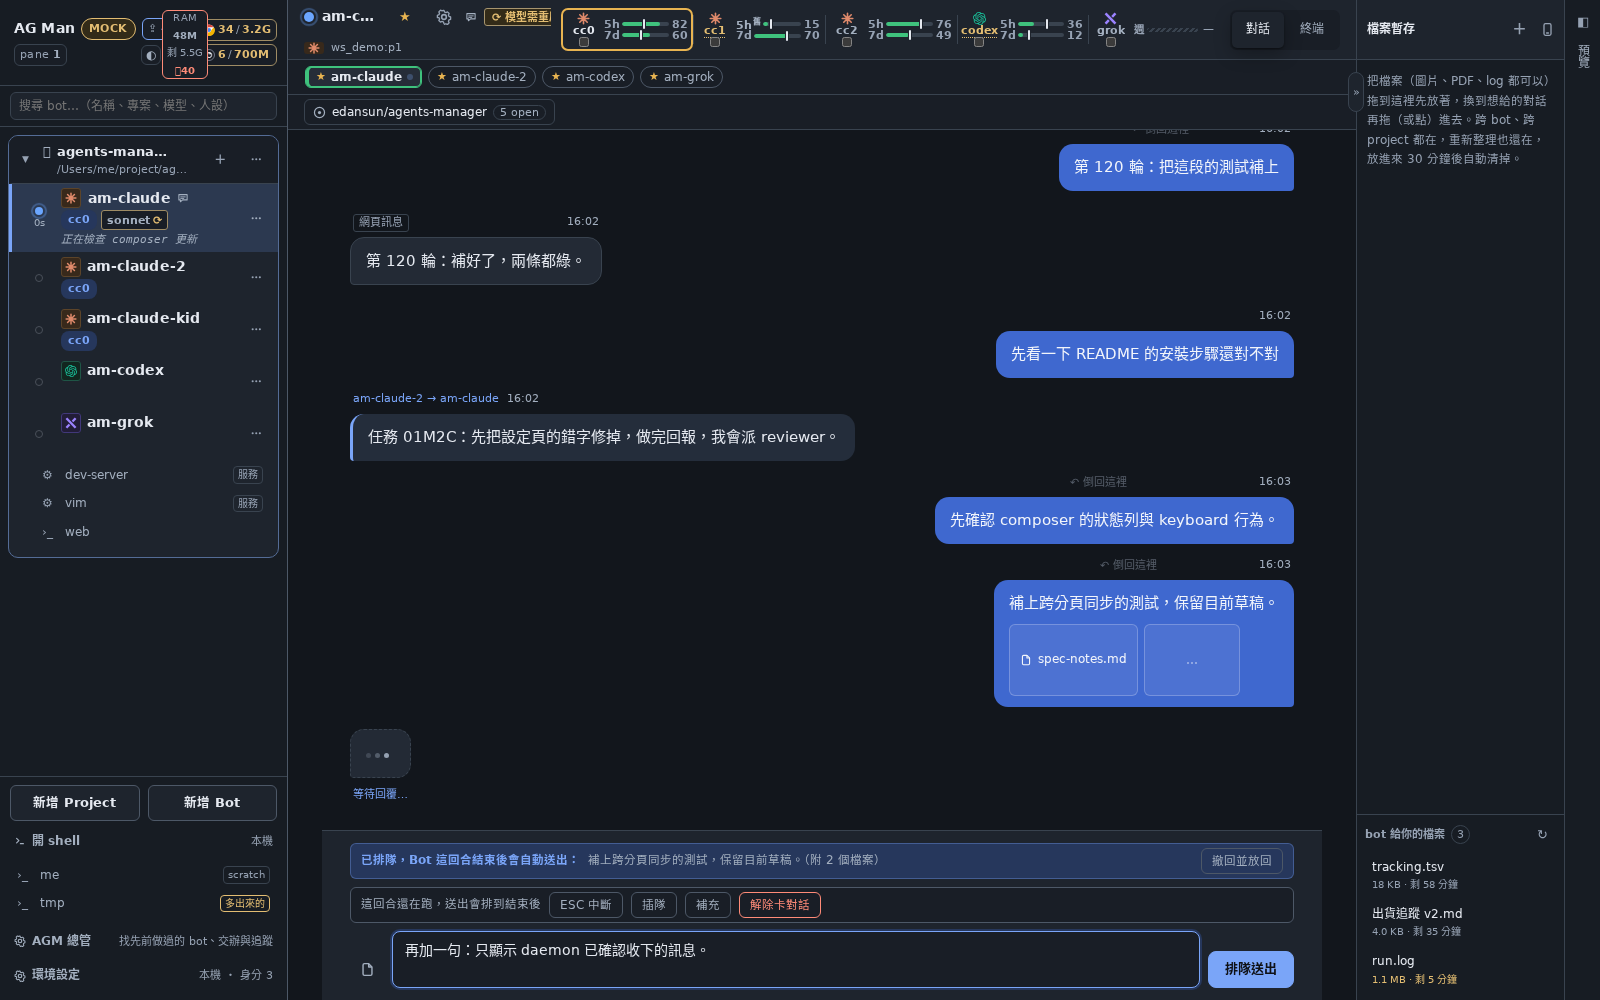
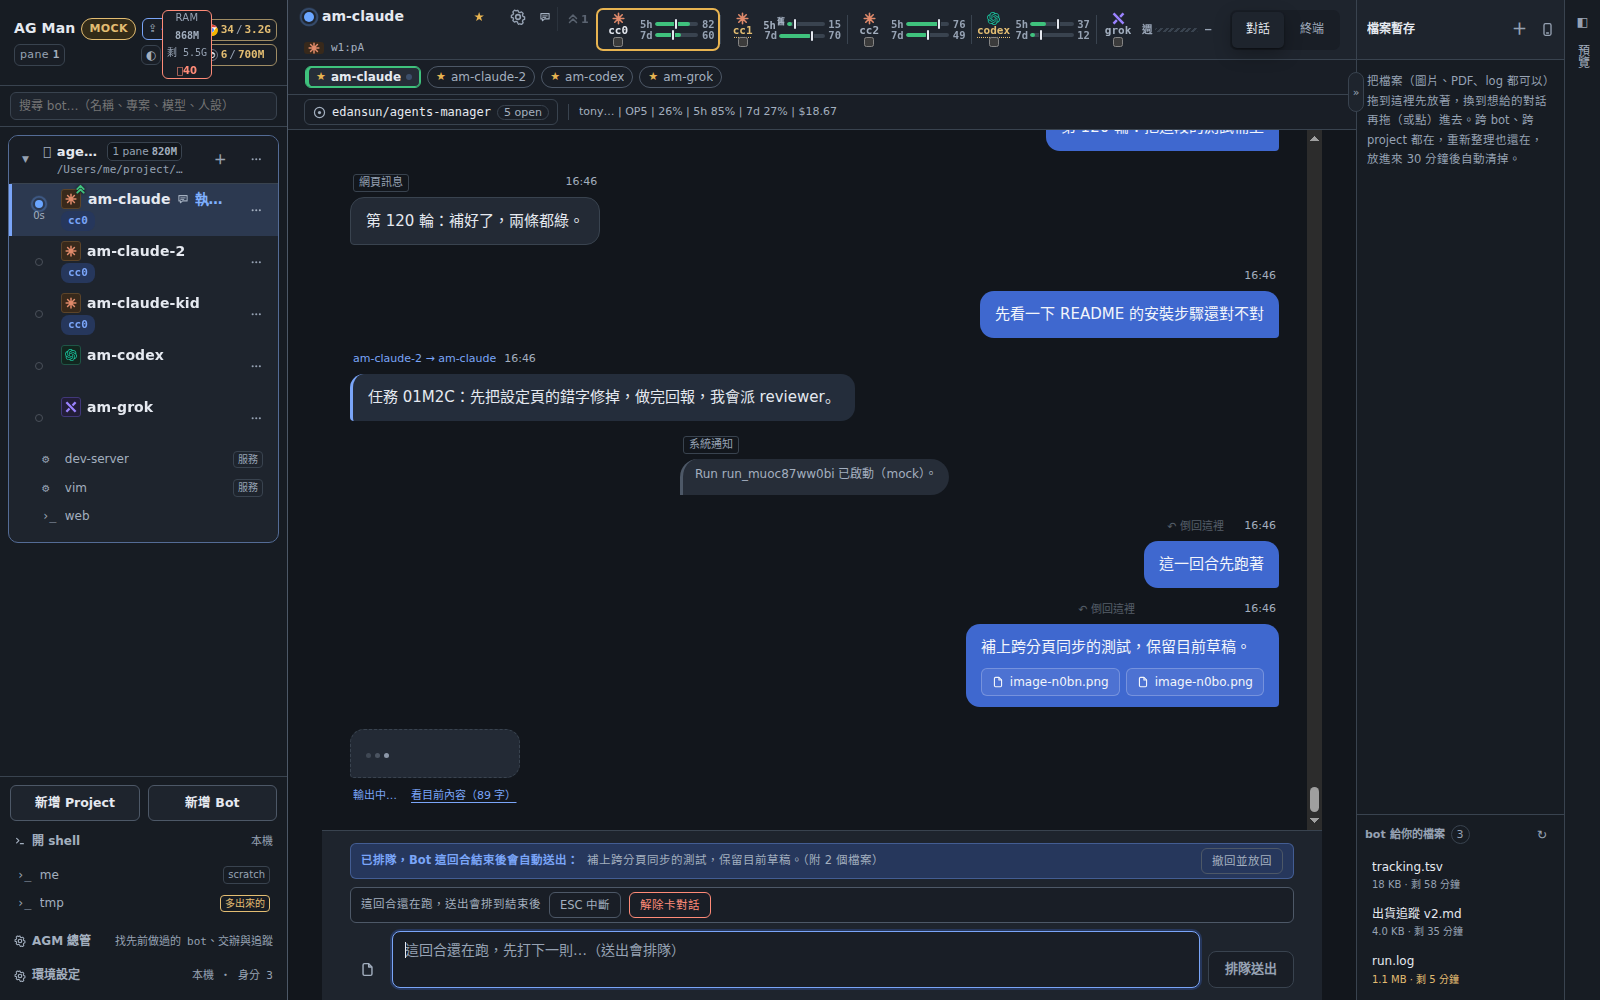
fix(web): let daemon own queued composer sends (Refs #733)

diff --git a/web/src/store/store.ts b/web/src/store/store.ts
@@ -54,7 +54,6 @@ import { sendNowFellThrough } from './sendNowOutcome'
 import { missionRequests } from './missionRequests'
 import { MISSION_USER_PAUSE } from '../lib/missionView'
 
-import type { QueuedSend } from './queuedSend'
 
 /** `patchBot` 的結果：要不要重啟，以及 daemon 有沒有把送進去的停用模型換掉（issue #539）。 */
 export interface PatchBotOutcome {
@@ -405,9 +404,6 @@ export interface StoreState {
   /** Render only while `composerState(...).inFlightTurnId === liveReply.turnId` so a stale entry never shows. */
   liveReply: Record<string, LiveReply>
 
-  /** @deprecated UI compatibility projection only; source is queued awaits_idle turns plus their user messages. */
-  queuedSends: Record<string, QueuedSend>
-
   /** SPEC §13 group view; non-null overrides `selectedBotId` (which is kept). */
   selectedProjectId: string | null
   groupMessages: Record<string, GroupMessage[]>
@@ -601,12 +597,6 @@ export interface StoreState {
   /** Positions are clamped to the current draft text. */
   setDraftCursor: (key: DraftKey, start: number, end?: number) => void
 
-  queueSend: (botId: string, text: string, attachments: string[]) => void
-  cancelQueuedSend: (botId: string) => void
-  /** 取消排隊：那則接回輸入框最前面（不蓋掉正在打的字）。 */
-  unqueueToDraft: (botId: string) => void
-  /** 送失敗時放回佇列或輸入框；三個送出入口共用，免得 409 把字吃掉。 */
-  restoreQueuedSend: (botId: string, pending: QueuedSend) => void
   /** issue #122：撤回 daemon 那一則「等 bot 起來」的訊息，文字接回輸入框最前面。 */
   cancelStartingSend: (botId: string) => Promise<void>
   /** issue #733：撤回 daemon-owned awaits_idle queued turn，再把原文接回草稿。 */
@@ -887,7 +877,6 @@ export const useStore = create<StoreState>((set, get) => {
   botUnread: initialUnread.bots,
   hiddenBotIds: [],
   liveReply: {},
-  queuedSends: {},
   composerDrafts: {},
 
   selectedProjectId: initialSelection.projectId,
@@ -1477,26 +1466,6 @@ export const useStore = create<StoreState>((set, get) => {
     }
   },
 
-  queueSend(botId, text, attachments) {
-    // UI compatibility adapter. The queue itself is created by the daemon's /prompt endpoint.
-    void get().sendPrompt(botId, text, attachments, false, false, undefined, true)
-  },
-
-  cancelQueuedSend(botId) {
-    void get().withdrawQueuedSend(botId)
-  },
-
-  unqueueToDraft(botId) {
-    void get().withdrawQueuedSend(botId)
-  },
-
-  restoreQueuedSend(botId, pending) {
-    const key = `bot:${botId}` as const
-    get().setDraft(key, prependDraft(pending.text, get().drafts[key] ?? ''))
-    get().setDraftCursor(key, pending.text.length)
-    if (pending.attachments.length > 0) get().notify('error', `訊息已退回輸入框，但 ${pending.attachments.length} 個附件要重新加`)
-  },
-
   async cancelStartingSend(botId) {
     const pending = startingSend(get().turns[botId], get().messages[botId])
     if (!pending) return
@@ -1539,8 +1508,6 @@ export const useStore = create<StoreState>((set, get) => {
       const text = withdrawn.text || pending.text
       get().setDraft(key, prependDraft(text, get().drafts[key] ?? ''))
       get().setDraftCursor(key, text.length)
-      const attachmentCount = withdrawn.attachments.length || pending.attachments.length
-      if (attachmentCount > 0) get().notify('error', `訊息已放回輸入框，但 ${attachmentCount} 個附件要重新加`)
       await get().loadMessages(botId)
     })
   },
@@ -2572,54 +2539,34 @@ export const useStore = create<StoreState>((set, get) => {
 }
 })
 
-/**
- * Compatibility projection for the still-shared composer. It is rebuilt from daemon turns and messages,
- * never written by Enter or used to decide when a message is sent.
- */
-function queuedSendProjection(state: StoreState): Record<string, QueuedSend> {
-  const projection: Record<string, QueuedSend> = {}
-  for (const botId of Object.keys(state.turns)) {
-    const pending = queuedSendFor(state, botId)
-    if (pending) projection[botId] = pending
-  }
-  return projection
+interface LegacyQueuedSend {
+  text: string
+  attachments: string[]
+  /** D's former compatibility projection tagged daemon rows with their turn id. */
+  turnId?: string
 }
 
-function sameQueuedProjection(a: Record<string, QueuedSend>, b: Record<string, QueuedSend>): boolean {
-  const keysA = Object.keys(a)
-  const keysB = Object.keys(b)
-  return keysA.length === keysB.length && keysA.every((key) => {
-    const left = a[key]
-    const right = b[key]
-    return Boolean(right) && left.turnId === right.turnId && left.text === right.text && left.attachments.join('\0') === right.attachments.join('\0')
-  })
-}
-
-useStore.subscribe((state, previous) => {
-  if (state.turns === previous.turns && state.messages === previous.messages) return
-  const queuedSends = queuedSendProjection(state)
-  if (!sameQueuedProjection(state.queuedSends, queuedSends)) useStore.setState({ queuedSends })
-})
-
-/** One-time bridge for a live/HMR store left over from the old bundle's non-persistent memory queue. */
+/** One-time bridge for a live/HMR store left over from a pre-#733 memory queue. */
 async function migrateLegacyQueuedSends(get: GetFn): Promise<void> {
   if (legacyQueueMigrationAttempted) return
   legacyQueueMigrationAttempted = true
-  const state = get()
-  const pending = Object.entries(state.queuedSends).filter(([botId, row]) => row && !queuedSendFor(state, botId))
-  if (pending.length === 0) return
-  useStore.setState({ queuedSends: {} })
+  const state = get() as StoreState & { queuedSends?: Record<string, LegacyQueuedSend> }
+  const legacyRows = state.queuedSends
+  if (!legacyRows) return
+  const pending = Object.entries(legacyRows).filter(([botId, row]) => row && !row.turnId && !queuedSendFor(state, botId))
+  const cleanState = { ...state } as StoreState & { queuedSends?: Record<string, LegacyQueuedSend> }
+  delete cleanState.queuedSends
+  useStore.setState(cleanState, true)
   for (const [botId, row] of pending) {
-    const legacy = row as QueuedSend
-    if (!legacy.text && legacy.attachments.length === 0) continue
-    const accepted = await get().sendPrompt(botId, legacy.text, legacy.attachments, false, false, undefined, true)
+    if (!row.text && row.attachments.length === 0) continue
+    const accepted = await get().sendPrompt(botId, row.text, row.attachments, false, false, undefined, true)
     if (!accepted) {
       const key = `bot:${botId}` as const
       const current = get().drafts[key] ?? ''
-      const restored = draftWithText(legacy.text, current)
+      const restored = draftWithText(row.text, current)
       if (restored !== current) get().setDraft(key, restored)
-      if (legacy.attachments.length > 0) {
-        get().notify('error', `舊分頁的訊息已退回輸入框，但 ${legacy.attachments.length} 個附件要重新加`)
+      if (row.attachments.length > 0) {
+        get().notify('error', `舊分頁的訊息已退回輸入框，但 ${row.attachments.length} 個附件要重新加`)
       }
     }
   }

diff --git a/web/src/components/ChatPanel.tsx b/web/src/components/ChatPanel.tsx
@@ -16,7 +16,7 @@ import { typeAlongside } from '../store/alongside'
 import { SentViaTag } from './SentViaTag'
 import { startingSend, startingSendLabel } from '../store/startingSend'
 import { composerPlaceholder, sendButtonLabel, sendButtonTitle } from '../lib/composerLabels'
-import { queuedIdleSend } from '../lib/queuedIdleSend'
+import { queuedSendFor } from '../store/queuedSend'
 import { isImeEnter } from '../lib/ime'
 import { herdrIdentity } from '../lib/herdrIdentity'
 import { PaneCopy } from './PaneCopy'
@@ -668,17 +668,7 @@ function Composer({
 }) {
   // Fresh object per call: raw from the selector would spin `useSyncExternalStore`.
   const state = useStore(useShallow((s) => composerState(s, botId)))
-  const sendPrompt = useStore((s) =>
-    s.sendPrompt as (
-      botId: string,
-      text: string,
-      attachments?: string[],
-      sendNow?: boolean,
-      startIfStopped?: boolean,
-      draft?: undefined,
-      queueIfBusy?: boolean,
-    ) => Promise<boolean>,
-  )
+  const sendPrompt = useStore((s) => s.sendPrompt)
   const abandonTurn = useStore((s) => s.abandonTurn)
   const interruptBot = useStore((s) => s.interruptBot)
   const abortBot = useStore((s) => s.abortBot)
@@ -688,10 +678,9 @@ function Composer({
   const startBot = useStore((s) => s.startBot)
   const sendText = useStore((s) => s.sendText)
   const notify = useStore((s) => s.notify)
-  // TODO(D): switch this transitional projection to the daemon queued-send selector from the store.
   const queued = useStore(
     useShallow((s) => {
-      const queuedSend = queuedIdleSend(s.turns[botId], s.messages[botId])
+      const queuedSend = queuedSendFor(s, botId)
       return queuedSend
         ? { turnId: queuedSend.turnId, text: queuedSend.text, attachmentCount: queuedSend.attachments.length }
         : null
@@ -705,10 +694,7 @@ function Composer({
   // issue #122：交給 daemon、在等 bot 起來的那一則（重整之後也還在）。
   const starting = useStore(useShallow((s) => startingSend(s.turns[botId], s.messages[botId])))
   const cancelStartingSend = useStore((s) => s.cancelStartingSend)
-  // TODO(D): selector/action are part of D's store change and are optional until that branch lands.
-  const withdrawQueuedSend = useStore((s) =>
-    (s as typeof s & { withdrawQueuedSend?: (botId: string) => Promise<void> }).withdrawQueuedSend ?? null,
-  )
+  const withdrawQueuedSend = useStore((s) => s.withdrawQueuedSend)
   const withdrawing = useStore((s) => Boolean(s.busy[`withdraw:${botId}`]))
   const startingBot = useStore((s) => Boolean(s.busy[`start:${botId}`]))
   const hasRun = useStore((s) => Boolean(s.runs[botId]))
@@ -789,7 +775,7 @@ function Composer({
   }
 
   const withdrawQueuedIdleSend = async () => {
-    if (!queued || !withdrawQueuedSend) return
+    if (!queued) return
     await withdrawQueuedSend(botId)
     const withdrawn = useStore.getState().turns[botId]?.[queued.turnId]?.status === 'failed'
     if (withdrawn) files.restoreAttachments(queuedAttachments)
@@ -848,7 +834,7 @@ function Composer({
           <button
             type="button"
             className="mini-btn"
-            disabled={withdrawing || !withdrawQueuedSend}
+            disabled={withdrawing}
             title="撤回這則訊息並放回輸入框"
             onClick={() => void withdrawQueuedIdleSend()}
           >

diff --git a/web/src/api/queuedTurnMock.test.ts b/web/src/api/queuedTurnMock.test.ts
@@ -5,9 +5,13 @@ import { ApiError } from './types.ts'
 
 test('mock prompt persists one awaits_idle turn, rejects a second slot, and withdraws with text and attachment IDs', async () => {
   const mock = new MockTransport()
-  // Seed an active, non-idle run directly. This also covers the API condition where agent_status
-  // is busy even when there is no in_flight turn row yet.
-  const internals = mock as unknown as { bots: { id: string; name: string }[]; runs: unknown[] }
+  // A busy run can be visible before its in_flight turn row arrives.
+  const internals = mock as unknown as {
+    bots: { id: string; name: string }[]
+    runs: unknown[]
+    turns: unknown[]
+    messages: { role: string; content: string }[]
+  }
   const botId = internals.bots.find((bot) => bot.name === 'am-claude')!.id
   internals.runs.push({ id: 'r1', bot_id: botId, state: 'running', agent_status: 'working' })
 
@@ -29,4 +33,27 @@ test('mock prompt persists one awaits_idle turn, rejects a second slot, and with
   assert.equal(projected?.awaits_idle, 1)
 
   assert.deepEqual(await mock.request('POST', `/turns/${queued.turn_id}/withdraw`), { text: 'queued text', attachments: ['a1', 'a2'] })
+
+  // Once an in-flight row is visible, queueing must still leave it alone.
+  internals.turns.push({
+    id: 'active',
+    conversation_id: 'c1',
+    run_id: 'r1',
+    bot_id: botId,
+    origin: 'web',
+    status: 'in_flight',
+    delivery: 'ok',
+    client_request_id: 'active',
+    created_at: '2026-09-30T00:00:00Z',
+    completed_at: null,
+  })
+  const queuedWhileInFlight = await mock.request('POST', `/bots/${botId}/prompt`, {
+    text: 'queued behind in-flight',
+    client_request_id: 'queued-while-in-flight',
+    queue_if_busy: true,
+  }) as { delivery: string }
+  assert.equal(queuedWhileInFlight.delivery, 'queued')
+  const activeTurn = internals.turns.find((turn) => (turn as { id: string }).id === 'active') as { status: string }
+  assert.equal(activeTurn.status, 'in_flight', 'queue_if_busy must leave the active turn alone')
+  assert.equal(internals.messages.some((message) => message.content.includes('被插隊送出打斷')), false)
 })

diff --git a/web/src/store/queuedTurn.test.ts b/web/src/store/queuedTurn.test.ts
@@ -39,7 +39,6 @@ function seed() {
     messages: {},
     drafts: {},
     notices: [],
-    queuedSends: {},
   })
 }
 
@@ -128,13 +127,13 @@ test('withdrawing an awaits_idle turn restores the server-returned text before t
   assert.ok(requests.some((request) => request.method === 'POST' && request.path.endsWith('/turns/t1/withdraw')))
   assert.equal(useStore.getState().drafts['bot:b1'], 'authoritative text\ntyped while queued')
   assert.equal(useStore.getState().turns.b1.t1.status, 'failed')
-  assert.ok(useStore.getState().notices.some((notice) => notice.text.includes('2 個附件')))
+  assert.equal(useStore.getState().notices.some((notice) => notice.text.includes('附件要重新加')), false, 'composer restores the existing attachment cards')
 })
 
 test('first bootstrap migrates a leftover legacy in-memory row through /prompt once', async () => {
   seed()
   // Simulate a HMR-preserved state object from the pre-#733 bundle.
-  useStore.setState({ queuedSends: { b1: { text: 'legacy row', attachments: [] } as never } })
+  useStore.setState({ queuedSends: { b1: { text: 'legacy row', attachments: [] } } } as never)
   routeDaemon((req) => {
     if (req.path.endsWith('/session')) return json({ token: 't' })
     if (req.path.endsWith('/prompt')) return json({ turn_id: 'migrated', message_id: 'm1', delivery: 'queued' })
@@ -147,5 +146,6 @@ test('first bootstrap migrates a leftover legacy in-memory row through /prompt o
   assert.equal(prompts.length, 1)
   assert.equal((prompts[0].body as { queue_if_busy?: boolean }).queue_if_busy, true)
   assert.equal((prompts[0].body as { text?: string }).text, 'legacy row')
+  assert.equal((useStore.getState() as unknown as { queuedSends?: unknown }).queuedSends, undefined)
   useStore.setState({ projects: [], bots: [], runs: {}, turns: {}, messages: {}, socket: 'closed' })
 })

diff --git a/web/src/store/queuedSend.ts b/web/src/store/queuedSend.ts
@@ -28,36 +28,3 @@ export function queuedSendFor(
 export function prependDraft(text: string, current: string): string {
   return text ? (current ? `${text}\n${current}` : text) : current
 }
-
-/** Temporary composer adapter while the UI switches from local queueing to sendPrompt(queueIfBusy). */
-export interface ComposerIO {
-  setText: (text: string) => void
-  clearFiles: () => void
-}
-
-export function queueFromComposer(
-  io: ComposerIO & { queueSend: (botId: string, text: string, attachments: string[]) => void },
-  botId: string,
-  body: string,
-  attachments: string[],
-): void {
-  io.setText('')
-  io.clearFiles()
-  io.queueSend(botId, body, attachments)
-}
-
-/** Legacy composer helper; server-owned queues are no longer restored into a browser-side slot. */
-export function settleComposerSend(
-  io: ComposerIO & { restoreQueuedSend: (botId: string, pending: QueuedSend) => void },
-  botId: string,
-  wasQueued: QueuedSend | null,
-  ok: boolean,
-): void {
-  if (ok) {
-    if (wasQueued) return
-    io.setText('')
-    io.clearFiles()
-    return
-  }
-  if (wasQueued) io.restoreQueuedSend(botId, wasQueued)
-}

diff --git a/web/src/api/mock.ts b/web/src/api/mock.ts
@@ -2978,8 +2978,8 @@ export class MockTransport implements Transport {
         : {}
       throw new ApiError(409, { error: 'conflict', reason: 'a turn is already in flight', turn_id: busy.id, ...why }, 'conflict')
     }
-    const interrupting = Boolean(busy)
-    if (busy) {
+    const interrupting = Boolean(busy && canSendNow)
+    if (busy && interrupting) {
       this.updateTurn(busy, { status: 'failed', completed_at: now() })
       this.addMessage({
         conversation_id: busy.conversation_id,
